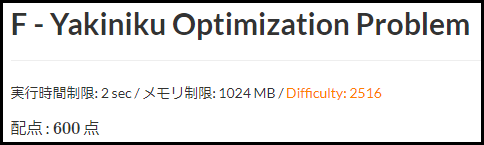
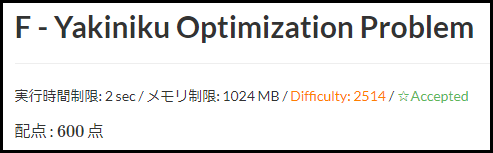
update 提出状況を表示する機能を追加したことを追記

diff --git a/README.md b/README.md
@@ -13,6 +13,12 @@
 
 問題のページに[AtCoder Problems](https://kenkoooo.com/atcoder/)のDifficultyを表示します。
 
+Difficultyとその問題をACしたかどうかを表示します。
+
+Difficultyはその値により色つけされます。
+
+その問題をACしたかどうかの表示は、その問題をコンテスト中にACした、まだ提出していない、などに応じて色つけされます。
+
 ### 問題点・改善点
 
 * 他のページでもDifficultyを表示する。
